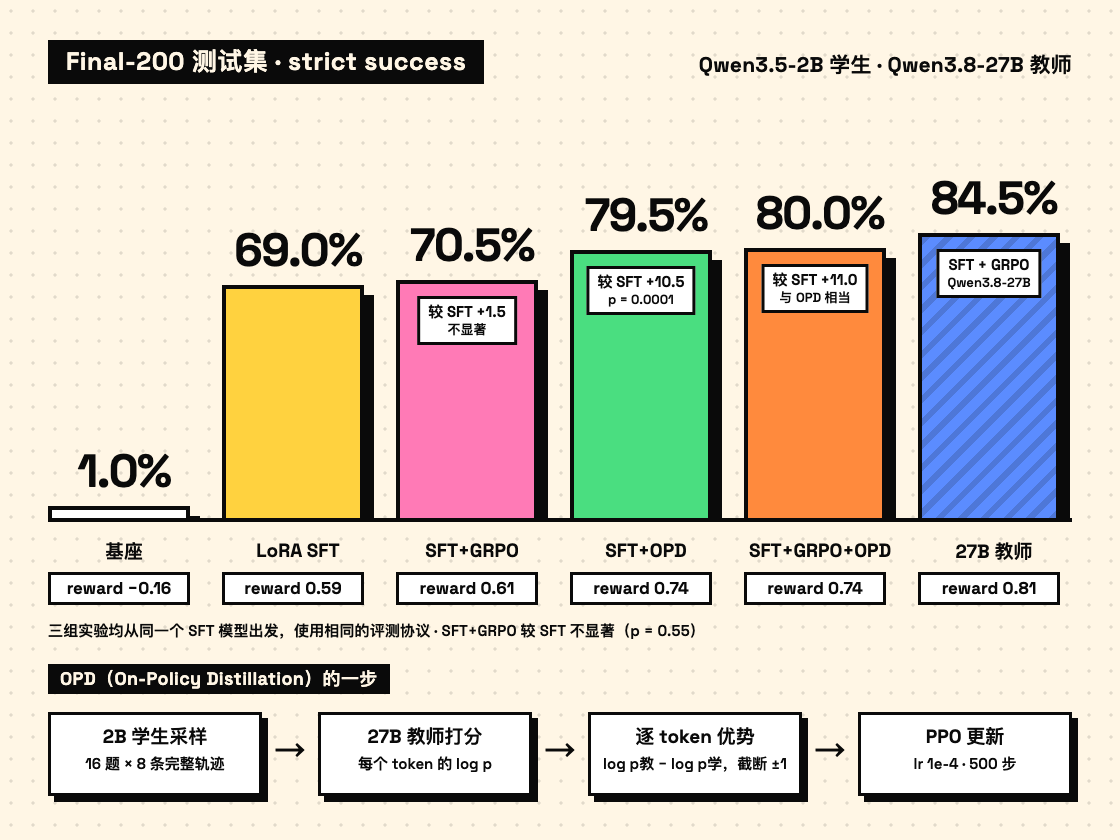
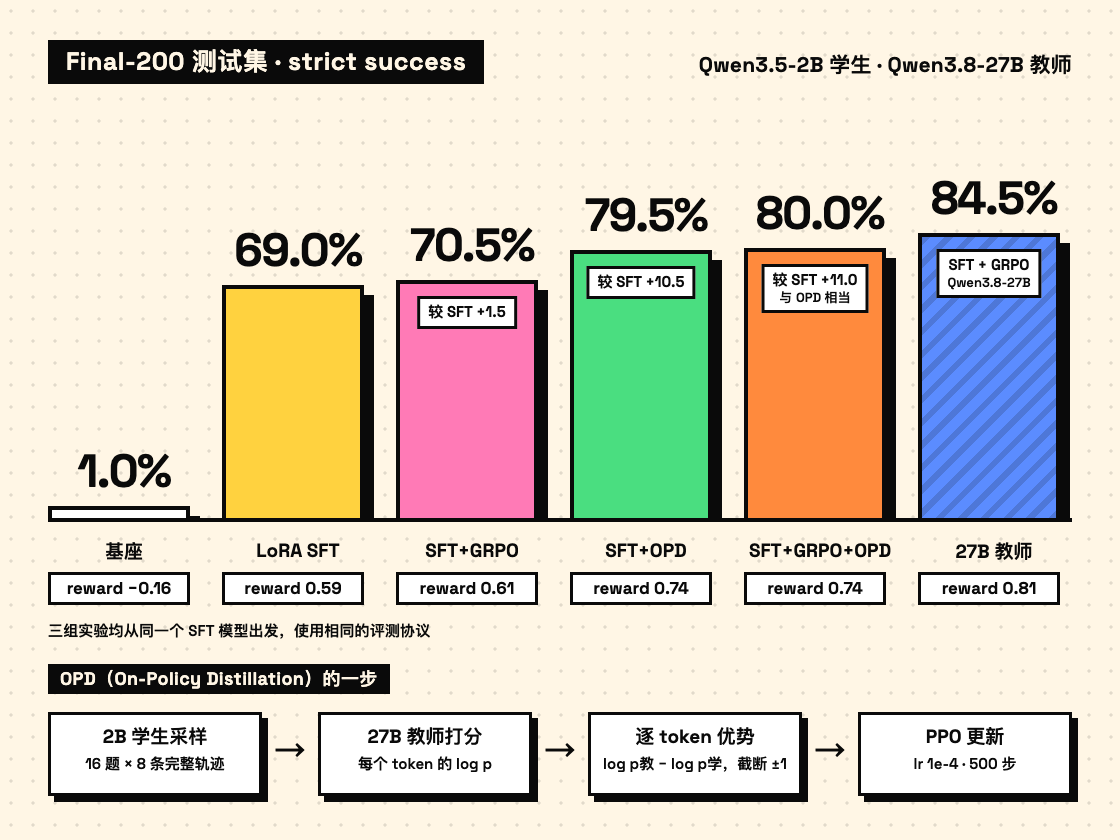
Shopping agent: remove remaining p-values and significance notes from card and figure

Changed region(s): [[0.375, 0.7429, 0.625, 0.7738], [0.5, 0.3405, 0.625, 0.4024], [0.375, 0.3714, 0.4688, 0.4333]]

diff --git a/index.html b/index.html
@@ -733,13 +733,13 @@ h1,h2,h3,h4{text-wrap:balance}
 <div class="proj-media">
 <figure class="browser mw-560">
 <div class="browser-bar" aria-hidden="true"><i></i><i></i><i></i><span class="browser-url">shopsimulator · sft → grpo / opd</span></div>
-<img src="assets/shopagent-opd.png" alt="购物 Agent 后训练结果：Final-200 测试集上的 strict success，Qwen3.5-2B 基座 1.0%，LoRA SFT 69.0%，SFT+GRPO 70.5%（较 SFT 不显著），SFT+OPD 79.5%（较 SFT +10.5 个点，p=0.0001），SFT+GRPO+OPD 80.0%，27B 教师 84.5%；下方为 OPD 一步的流程：学生采样、教师逐 token 打分、按对数概率差计算优势、PPO 更新" width="560" height="420" loading="lazy" decoding="async">
+<img src="assets/shopagent-opd.png" alt="购物 Agent 后训练结果：Final-200 测试集上的 strict success，Qwen3.5-2B 基座 1.0%，LoRA SFT 69.0%，SFT+GRPO 70.5%（较 SFT +1.5 个点），SFT+OPD 79.5%（较 SFT +10.5 个点），SFT+GRPO+OPD 80.0%（较 SFT +11.0 个点），27B 教师 84.5%；下方为 OPD 一步的流程：学生采样、教师逐 token 打分、按对数概率差计算优势、PPO 更新" width="560" height="420" loading="lazy" decoding="async">
 </figure>
 </div>
 <div class="proj-body">
 <div class="proj-kick"><span class="proj-no">PROJECT 02</span><span class="chip fill c-o">Agentic RL</span></div>
 <h3>长程中文购物 Agent 后训练：<wbr>LoRA SFT、多轮 GRPO 与 OPD</h3>
-<p class="proj-desc">一次中文购物 Agent 的 RL 后训练探索：在 ShopSimulator v2.1 上以 Qwen3.5-2B 为学生，从 LoRA SFT 出发，依次尝试多轮 GRPO、On-Policy Distillation（OPD）以及两者联合训练，在 200 题测试集上比较每一步的提升。SFT 把 strict success 从 1.0% 提升到 69.0%；GRPO 再提升 1.5 个点，不显著；以 Qwen3.8-27B 为教师做 token 级 OPD，在 SFT 基础上提升 10.5 个点（p=0.0001），达到 79.5%；GRPO 与 OPD 联合训练为 80.0%，与 OPD 相当。</p>
+<p class="proj-desc">一次中文购物 Agent 的 RL 后训练探索：在 ShopSimulator v2.1 上以 Qwen3.5-2B 为学生，从 LoRA SFT 出发，依次尝试多轮 GRPO、On-Policy Distillation（OPD）以及两者联合训练，在 200 题测试集上比较每一步的提升。SFT 把 strict success 从 1.0% 提升到 69.0%；GRPO 再提升 1.5 个点；以 Qwen3.8-27B 为教师做 token 级 OPD，在 SFT 基础上提升 10.5 个点，达到 79.5%；GRPO 与 OPD 联合训练为 80.0%，与 OPD 相当。</p>
 <ul class="metrics" aria-label="关键指标">
 <li class="metric"><b>69.0%</b><span>LoRA SFT：基座 1.0%</span></li>
 <li class="metric"><b>70.5%</b><span>SFT+GRPO：+1.5</span></li>
@@ -753,10 +753,10 @@ h1,h2,h3,h4{text-wrap:balance}
 <div><dt>Reward 设计</dt><dd>只在终局给分，结果确定、可复现。品类和预算是硬门槛（不满足得 −0.85），品牌 / 型号 / 核心功能 / 关键规格按 0.35 / 0.25 / 0.25 / 0.15 加权：买到目标商品得 1.0，买到完全满足需求的替代品得 0.55，部分满足最多 0.25；提前放弃、超出步数、重复打转分别给不同的负分。strict success 只算买到目标商品；无法核验 reward 的样本标为 <code>reward_unverifiable</code>，计入分母。</dd></div>
 <div><dt>LoRA SFT</dt><dd>对 Qwen3.5-2B 做 LoRA SFT（r16 / α32），只在 assistant 动作 token 上计算 loss；lr 1e-4，3 个 epoch 共 300 步，单张 A800 约 3.9 小时。strict success 从 1.0% 升到 69.0%。基座的问题主要是格式与合法性：135 题因非法动作过多被终止，SFT 后只剩 2 题。</dd></div>
 <div><dt>多轮在线 GRPO</dt><dd>在 veRL 0.8 上自研 AgentLoop 与工具适配层，从 SFT 合并模型出发：lr 1e-4，每步 2 题 × 4 条轨迹，优势为奖励减组内均值，丢弃组内奖励全相同的组。strict success 为 70.5%，较 SFT +1.5 个点。信号稀疏：784 次迭代中 42% 凑不出有效组而跳过更新。</dd></div>
-<div><dt>27B 教师</dt><dd>同一配方迁移到 Qwen3.8-27B：零样本 70.0%；4 卡 FSDP 做 LoRA SFT 后 82.0%；再做多轮 GRPO（6 卡，每步 3 题 × 8 条轨迹）后为 84.5%，相对 SFT 的提升不显著（p=0.0625），作为 OPD 的教师。</dd></div>
+<div><dt>27B 教师</dt><dd>同一配方迁移到 Qwen3.8-27B：零样本 70.0%；4 卡 FSDP 做 LoRA SFT 后 82.0%；再做多轮 GRPO（6 卡，每步 3 题 × 8 条轨迹）后为 84.5%，作为 OPD 的教师。</dd></div>
 <div><dt>OPD（On-Policy Distillation）</dt><dd>2B 学生按温度 1.0 采样完整的多轮轨迹（每步 16 题 × 8 条），27B 教师对其中每个 token 给出 log p；以 k1 = log p学生 − log p教师 构造逐 token 优势 A = −clip(k1, ±1)，按 PPO clip 0.2 更新，不使用任务奖励。lr 1e-4 训练 500 步，strict success 79.5%，较 SFT +10.5 个点。SFT+GRPO+OPD 在同样设置下把 GRPO 任务奖励项与 OPD 项相加（λ=1）联合训练。</dd></div>
-<div><dt>评测</dt><dd>所有模型用同一份 Final-200 测试集：贪心解码，最多 35 步、24,576 token 上下文，缺失和出错的题计入分母。三组实验都从同一个 SFT 模型出发，使用相同的评测协议。两个模型在同一 200 题上逐题配对，用 McNemar 精确检验计算 p 值。</dd></div>
-<div><dt>结果（Final-200 测试集）</dt><dd>strict success / 平均 reward：<br>Qwen3.5-2B 基座：<span class="hl" style="--hl: var(--blue);">1.0% / −0.162</span><br>+ LoRA SFT：<span class="hl" style="--hl: var(--yellow);">69.0% / 0.593</span><br>SFT+GRPO：<span class="hl" style="--hl: var(--yellow);">70.5% / 0.608</span><br>SFT+OPD：<span class="hl" style="--hl: var(--pink);">79.5% / 0.737</span><br>SFT+GRPO+OPD：<span class="hl" style="--hl: var(--pink);">80.0% / 0.742</span><br>Qwen3.8-27B：零样本 <span class="hl" style="--hl: var(--green);">70.0% → SFT 82.0% → GRPO 84.5%</span><br>OPD 把买错从 11 题降到 0、部分满足从 35 题降到 23 题；与教师仍差 5.0 个点（p=0.076），主要是重复打转（学生 17 题，教师 3 题）。</dd></div>
+<div><dt>评测</dt><dd>所有模型用同一份 Final-200 测试集：贪心解码，最多 35 步、24,576 token 上下文，缺失和出错的题计入分母。三组实验都从同一个 SFT 模型出发，使用相同的评测协议。</dd></div>
+<div><dt>结果（Final-200 测试集）</dt><dd>strict success / 平均 reward：<br>Qwen3.5-2B 基座：<span class="hl" style="--hl: var(--blue);">1.0% / −0.162</span><br>+ LoRA SFT：<span class="hl" style="--hl: var(--yellow);">69.0% / 0.593</span><br>SFT+GRPO：<span class="hl" style="--hl: var(--yellow);">70.5% / 0.608</span><br>SFT+OPD：<span class="hl" style="--hl: var(--pink);">79.5% / 0.737</span><br>SFT+GRPO+OPD：<span class="hl" style="--hl: var(--pink);">80.0% / 0.742</span><br>Qwen3.8-27B：零样本 <span class="hl" style="--hl: var(--green);">70.0% → SFT 82.0% → GRPO 84.5%</span><br>OPD 把买错从 11 题降到 0、部分满足从 35 题降到 23 题；与教师仍差 5.0 个点，主要是重复打转（学生 17 题，教师 3 题）。</dd></div>
 </dl>
 <div class="proj-foot"><ul class="chips"><li class="chip">Qwen3.5-2B</li><li class="chip">Qwen3.8-27B</li><li class="chip">veRL</li><li class="chip">GRPO</li><li class="chip">OPD</li><li class="chip">LoRA SFT</li><li class="chip">vLLM</li><li class="chip">Ray</li><li class="chip">FSDP</li><li class="chip">Rule-based Reward</li></ul></div>
 </div>
